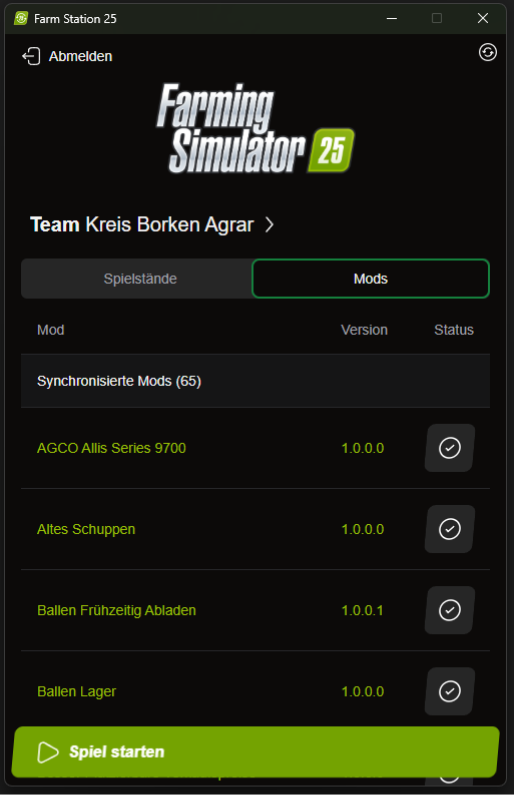
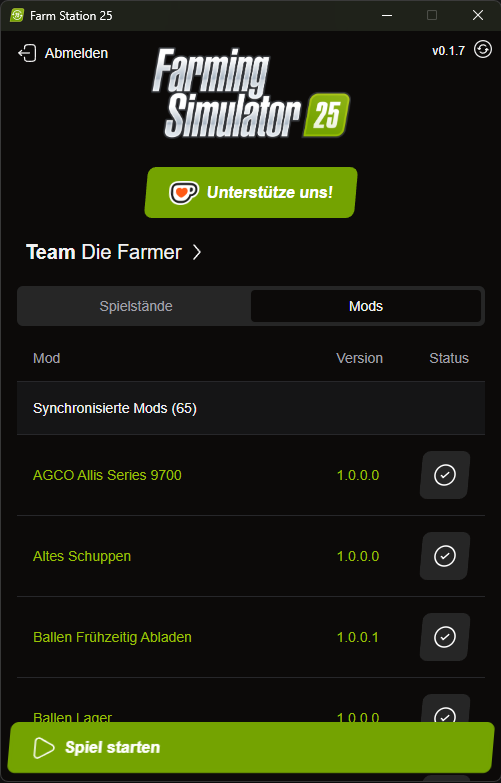
update preview files and reorder support buton

diff --git a/src/routes/+page.svelte b/src/routes/+page.svelte
@@ -75,6 +75,15 @@
     alt="Farming Simulator 25 Logo"
     class="logo"
   />
+  <a
+    target="_blank"
+    class="relative btn-primary flex self-center justify-start gap-2 hover:animate-wiggle skew-x-[-5deg]"
+    href="https://ko-fi.com/eweren"
+    aria-label="Support me on Kofi"
+  >
+    <img class="h-6" src="/kofi_symbol.png" alt="Farming Simulator 25 Logo" />
+    <T keyName="support_us" />
+  </a>
 
   {#if $config.teamId != null}
     {#if $config.name == null || showName}
@@ -175,19 +184,6 @@
         </Tabs.Content>
       </Tabs.Root>
 
-      <a
-        target="_blank"
-        class="relative mx-auto group"
-        href="https://ko-fi.com/eweren"
-        aria-label="Support me on Kofi"
-      >
-        <img
-          class="hover:animate-wiggle skew-x-[-5deg]"
-          width="200"
-          src="/support_me.png"
-          alt="Farming Simulator 25 Logo"
-        />
-      </a>
       <div class="h-12"></div>
       <button
         disabled={$gameStatus === GameStatus.RUNNING ||
@@ -373,7 +369,7 @@
   }
 
   .logo {
-    margin: 2rem auto 1rem;
+    margin: 0 auto 1rem;
     display: block;
   }
 

diff --git a/src/app.css b/src/app.css
@@ -154,7 +154,7 @@
 .text-default {
   color: hsl(var(--foreground));
 }
-button.btn-primary {
+.btn-primary {
   border-radius: 8px;
   border: 1px solid transparent;
   padding: 0.6em 1.2em;
@@ -172,7 +172,7 @@ button.btn-primary {
   outline: 2px solid transparent;
   transform: skewX(-5deg);
 }
-button.btn-primary.outline {
+.btn-primary.outline {
   background-color: transparent;
   border: 4px solid var(--fs-color-primary);
   color: var(--foreground);
@@ -180,17 +180,17 @@ button.btn-primary.outline {
 input {
   transform: skewX(-5deg);outline-color: var(--fs-color-primary-light) !important;
 }
-button.btn-primary:active {
+.btn-primary:active {
   filter: brightness(0.9);
   border: 4px solid var(--fs-color-primary-light);
   outline: 4px solid var(--fs-color-dark);
 }
-button.btn-primary:hover {
+.btn-primary:hover {
   filter: brightness(1.1);
   border: 4px solid var(--fs-color-primary-light);
   outline: 4px solid var(--fs-color-dark);
 }
-button.btn-primary:disabled {
+.btn-primary:disabled {
   background-color: hsl(var(--muted));
   border: 4px solid transparent;
   cursor: not-allowed;

diff --git a/README.md b/README.md
@@ -1,5 +1,8 @@
 [![publish](https://github.com/eweren/FS25-farm-station-25/actions/workflows/publish-to-auto-release.yml/badge.svg?branch=release)](https://github.com/eweren/FS25-farm-station-25/actions/workflows/publish-to-auto-release.yml)
 
+<a href="https://ko-fi.com/eweren"><img src="images/support_me.png" height="34" ></a>
+
+
 
 # Farming Simulator 2025 sync kit
 
@@ -18,7 +21,7 @@ To set it up, you have to follow these steps:
 
 Savegames                |  Mods
 :-------------------------:|:-------------------------:
-![screenshot2](images/FS25_savegames.png)  |  ![screenshot](images/FS25_mods.png)
+<img src="images/FS25_savegames.png" width="400" > |  <img src="images/FS25_mods.png" width="400" >
 
 ## How it works
 
